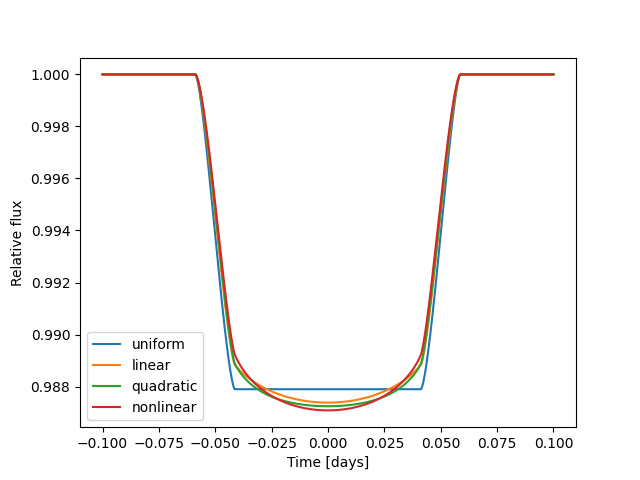
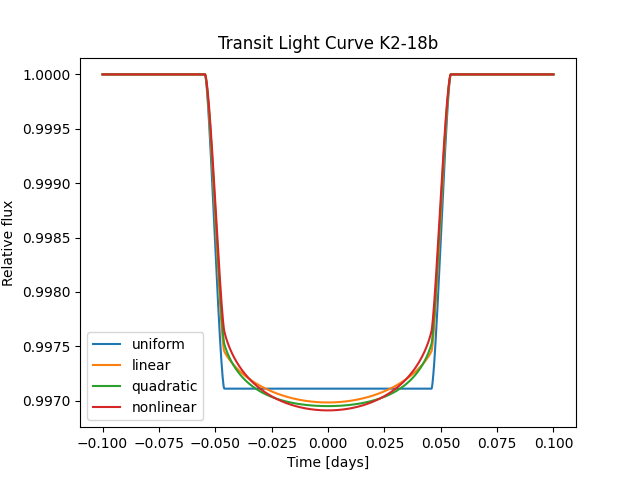
File transit.py correction for planet radius

diff --git a/src/daneel/detection/transit.py b/src/daneel/detection/transit.py
@@ -1,26 +1,28 @@
-
 import batman
 import numpy as np
 import matplotlib.pyplot as plt
 
-params = batman.TransitParams()       #object to store transit parameters
-params.t0 = 0.                        #time of inferior conjunction
-params.per = 32.940045                       #orbital period
-params.rp = 0.05375                       #planet radius (in units of stellar radii)
-params.a = 83.33                        #semi-major axis (in units of stellar radii)
-params.inc = 89.5785                      #orbital inclination (in degrees)
-params.ecc = 0.20                       #eccentricity
-params.w = - 5.70                        #longitude of periastron (in degrees)
-params.limb_dark = "nonlinear"        #limb darkening model
-params.u = [0.5, 0.1, 0.1, -0.1]      #limb darkening coefficients [u1, u2, u3, u4]
+params = batman.TransitParams()       # object to store transit parameters
+params.t0 = 0.                        # time of inferior conjunction
+params.per = 32.940045                # orbital period
+params.rp = 0.05375                   # planet radius (in units of stellar radii)
+params.a = 83.33                      # semi-major axis (in units of stellar radii)
+params.inc = 89.5785                  # orbital inclination (in degrees)
+params.ecc = 0.20                     # eccentricity
+params.w = - 5.70                     # longitude of periastron (in degrees)
+params.limb_dark = "nonlinear"        # limb darkening model
+params.u = [0.5, 0.1, 0.1, -0.1]      # limb darkening coefficients [u1, u2, u3, u4]
 
-t = np.linspace(-0.1, 0.1, 1000)  #times at which to calculate light curve
-m = batman.TransitModel(params, t)    #initializes model
-flux = m.light_curve(params)                    #calculates light curve
+t = np.linspace(-0.1, 0.1, 1000)      # times at which to calculate light curve
+m = batman.TransitModel(params, t)    # initializes model
+flux = m.light_curve(params)          # calculates light curve
+
 radii = np.linspace(0.09, 0.11, 20)
 for r in radii:
-        params.rp = r                           #updates planet radius
-        new_flux = m.light_curve(params)        #recalculates light curve
+        params.rp = r                 # updates planet radius
+        new_flux = m.light_curve(params) # recalculates light curve
+
+params.rp = 0.05375 
 
 ld_options = ["uniform", "linear", "quadratic", "nonlinear"]
 ld_coefficients = [[], [0.3], [0.1, 0.3], [0.5, 0.1, 0.1, -0.1]]
@@ -28,12 +30,14 @@ ld_coefficients = [[], [0.3], [0.1, 0.3], [0.5, 0.1, 0.1, -0.1]]
 plt.figure()
 
 for i in range(4):
-        params.limb_dark = ld_options[i]          #specifies the LD profile
-        params.u = ld_coefficients[i]             #updates LD coefficients
-        m = batman.TransitModel(params, t)        #initializes the model
-        flux = m.light_curve(params)              #calculates light curve
+        params.limb_dark = ld_options[i]          # specifies the LD profile
+        params.u = ld_coefficients[i]             # updates LD coefficients
+        m = batman.TransitModel(params, t)        # initializes the model
+        flux = m.light_curve(params)              # calculates light curve
         plt.plot(t, flux, label = ld_options[i])
-        plt.legend()
-        plt.xlabel("Time [days]")
-        plt.ylabel("Relative flux")
-        plt.savefig("K2-18b_assignment1_taskF.png")
+
+plt.legend()
+plt.xlabel("Time [days]")
+plt.ylabel("Relative flux")
+plt.title("Transit Light Curve K2-18b")
+plt.savefig("K2-18b_assignment1_taskF.png")
